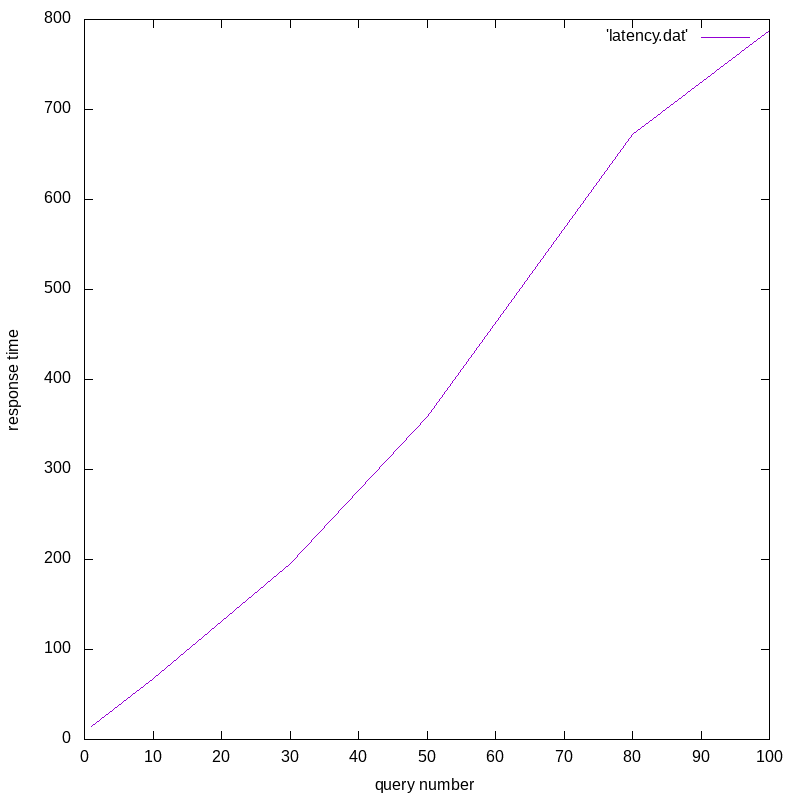
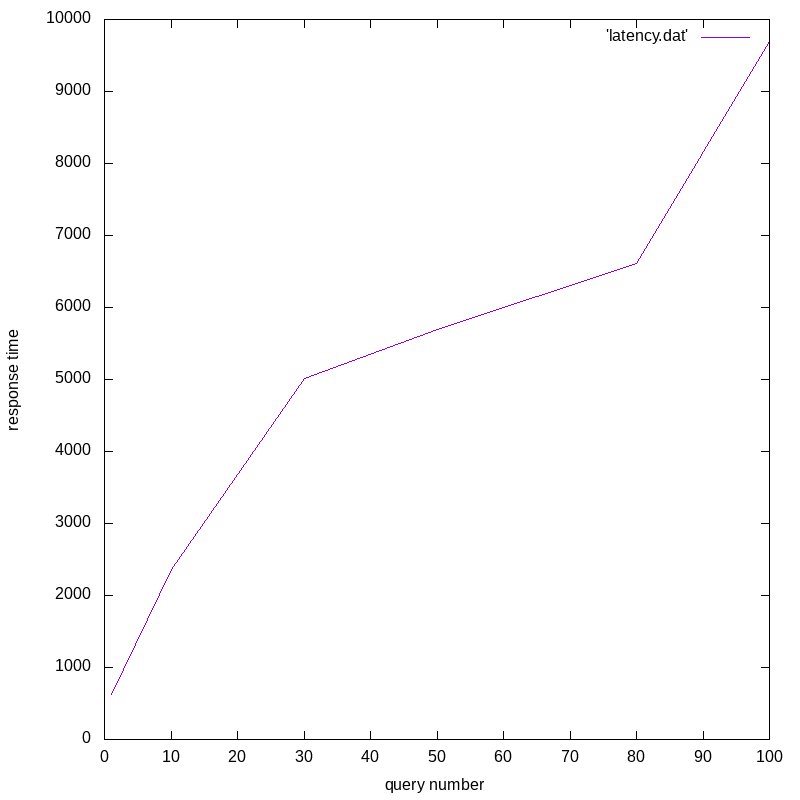
add wkr output and fix test

diff --git a/loadTest/script.php b/loadTest/script.php
@@ -5,8 +5,9 @@ function loadTest($graphPrefix)
 
     $resultsLatency = [];
     $resultsThroughput = [];
+    $outputBuffer = '';
     foreach ([1, 10, 30, 50, 80, 100] as $connectionNumber) {
-        $l = `wrk -c$connectionNumber -t1 --timeout 30s 'http://sn.in:8080/searchfirstName=Mia&lastName=Hena'`;
+        $l = `wrk -c$connectionNumber -t1 --timeout 300s 'http://sn.in:8080/search?firstName=Mia&lastName=Hena'`;
         preg_match('/Latency\s+(\d*.\d*)([a-z]+)/', $l, $m);
         $rpsValue = (float)$m[1];
         $rpsMesurment = $m[2];
@@ -20,10 +21,11 @@ function loadTest($graphPrefix)
         $resultsThroughput[] = $connectionNumber . ' ' . $throughput;
         echo $l . PHP_EOL;
         echo '----------------------------------' . PHP_EOL;
+        $outputBuffer .= $l . PHP_EOL;
         sleep(10);
     }
 
-
+    file_put_contents("$graphPrefix-wrk.out", $outputBuffer);
     file_put_contents('latency.dat', implode(PHP_EOL, $resultsLatency));
     file_put_contents('throughtput.dat', implode(PHP_EOL, $resultsThroughput));
 
